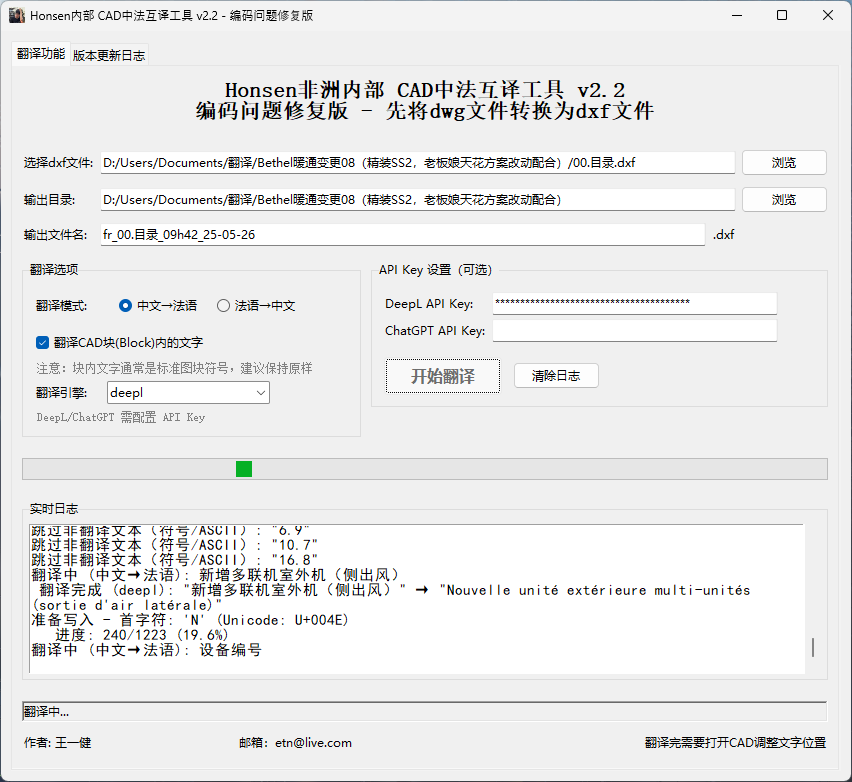
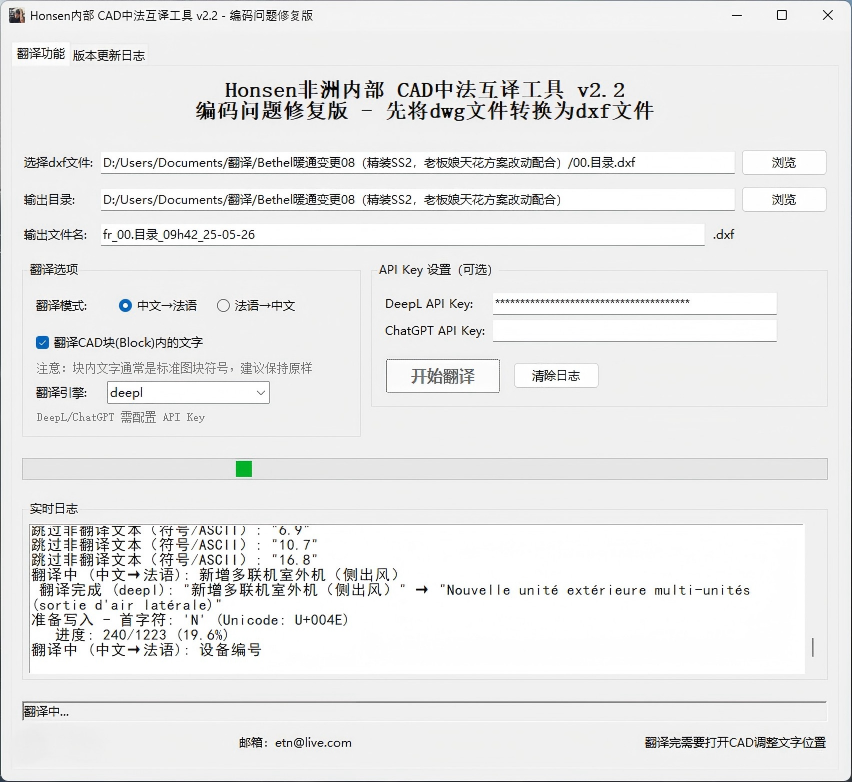
readme add demo pic

diff --git a/main.py b/main.py
@@ -826,7 +826,7 @@ class CADTranslatorGUI:
         footer_frame = ttk.Frame(main_frame)
         footer_frame.grid(row=9, column=0, columnspan=3, pady=(10, 5), sticky=(tk.W, tk.E))
         footer_frame.columnconfigure((0, 1, 2), weight=1)
-        ttk.Label(footer_frame, text="作者: 王一健").grid(row=0, column=0, sticky=tk.W)
+        ttk.Label(footer_frame, text="作者: Etienne").grid(row=0, column=0, sticky=tk.W)
         ttk.Label(footer_frame, text="邮箱：etn@live.com").grid(row=0, column=1, sticky=tk.EW)
         ttk.Label(footer_frame, text="翻译完需要打开CAD调整文字位置").grid(row=0, column=2, sticky=tk.E)
 
